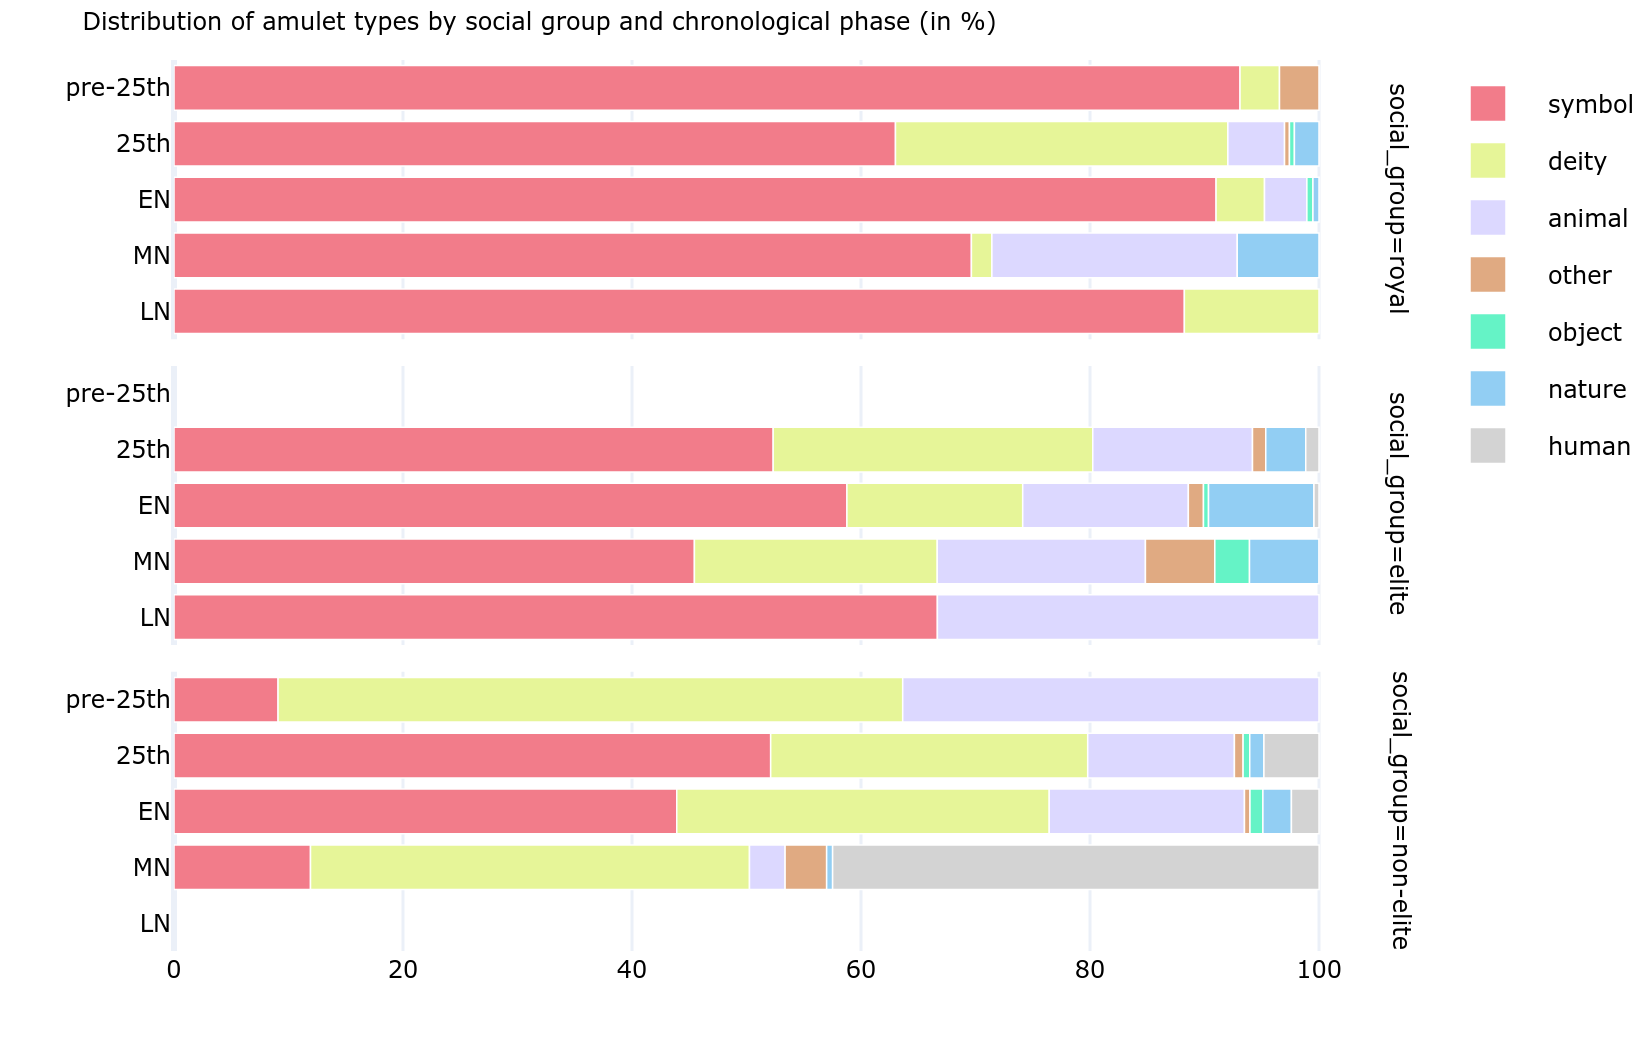
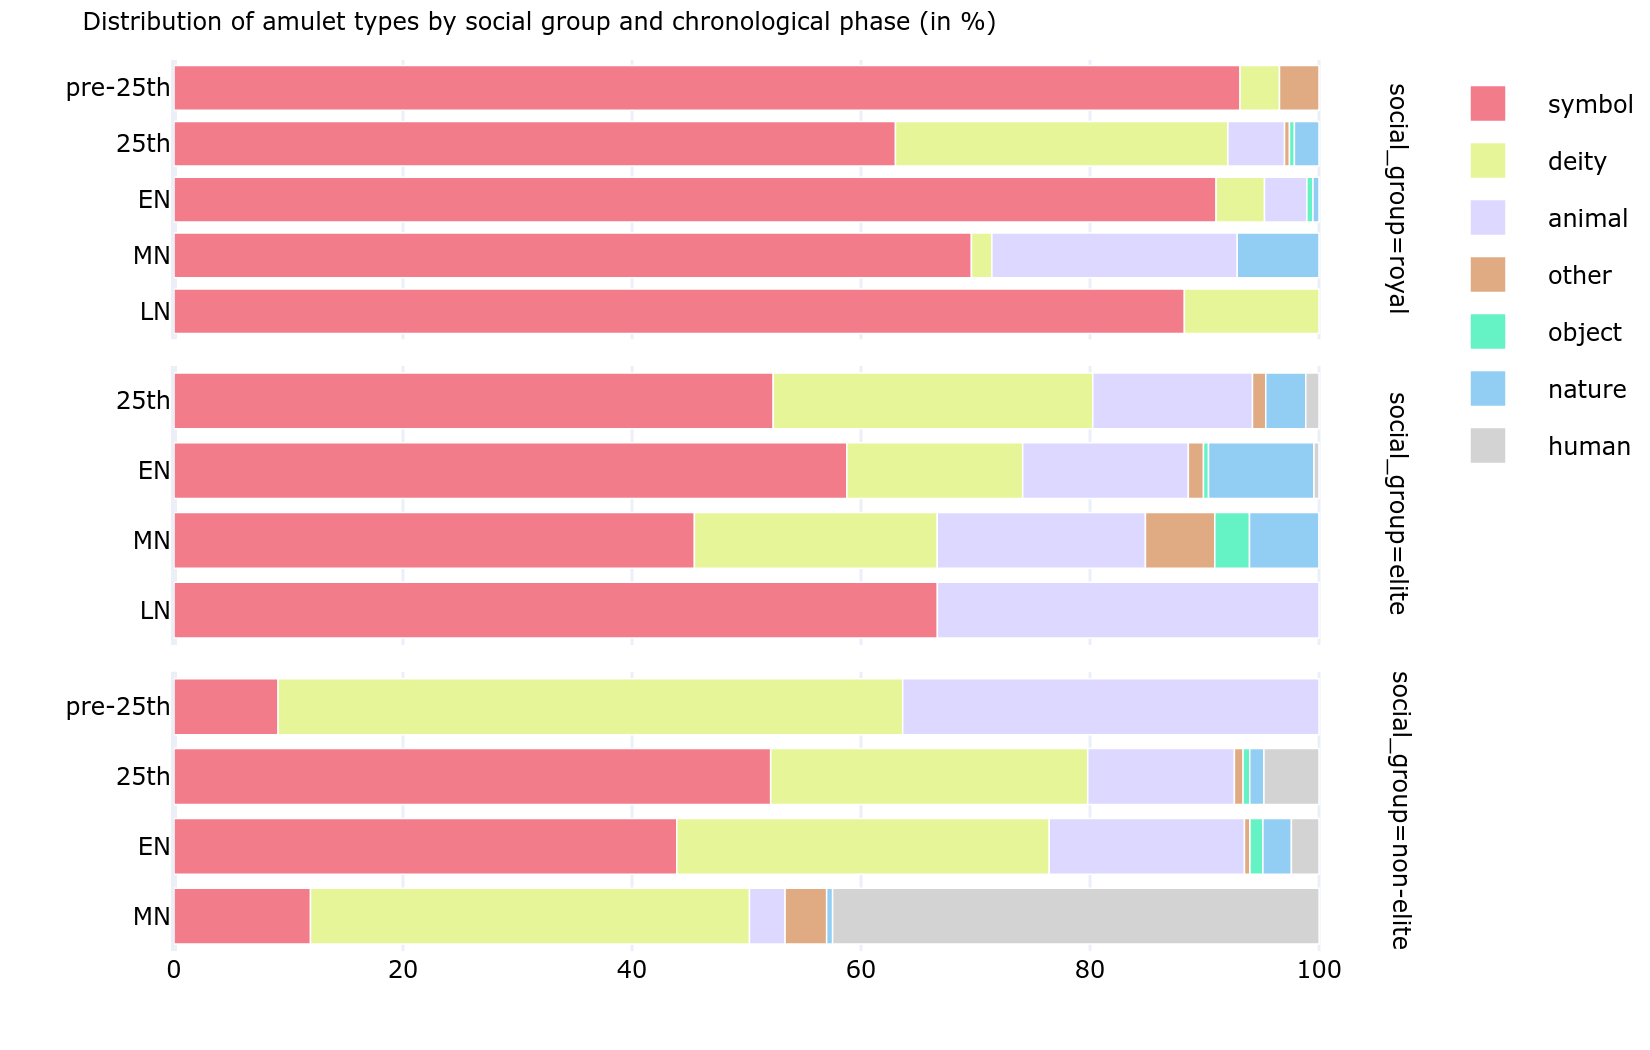
final graphs

Changed region(s): [[0.0309, 0.64, 0.8036, 0.9143], [0.0309, 0.3352, 0.8036, 0.6095]]

diff --git a/chapter6/types_phase.py b/chapter6/types_phase.py
@@ -122,7 +122,7 @@ fig.update_layout(
     title_font=dict(size=8)
 )
 
-fig.update_yaxes(title='')
+fig.update_yaxes(title='', matches=None)
 fig.update_xaxes(title='')
 
 pio.write_image(fig, 'images/chapter6/types_phase.png',scale=3, width=550, height=350)
